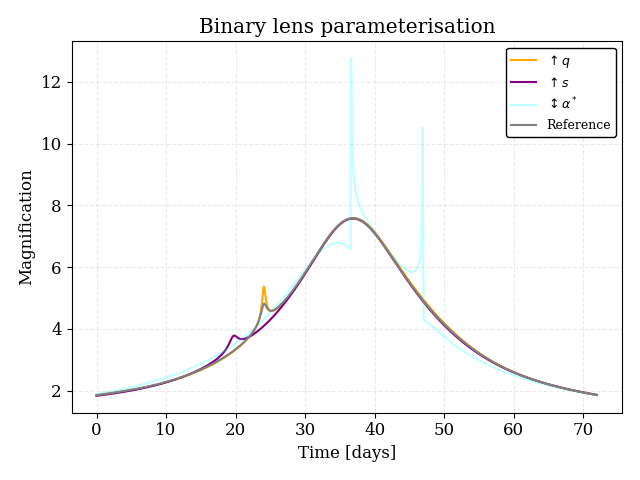
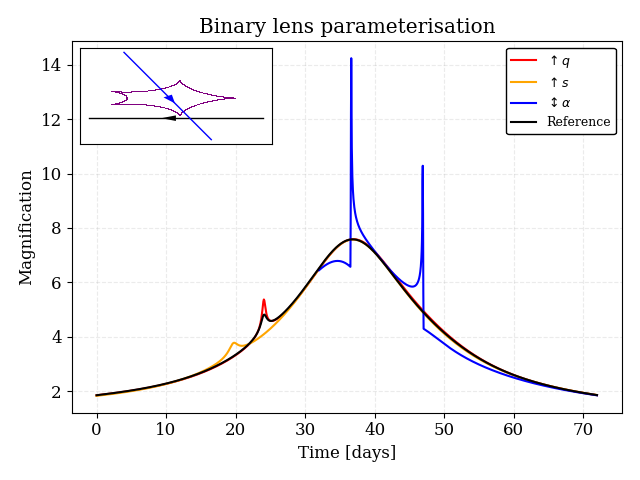
finished paramter plot

diff --git a/light-curve-test.py b/light-curve-test.py
@@ -2,6 +2,9 @@
 # Part 4 Project, RJMCMC for Microlensing
 # [Lightcurve plotting]
 
+from os import error
+from numpy.core.defchararray import title
+from numpy.core.fromnumeric import size
 import MulensModel as mm
 import matplotlib.pyplot as plt
 import numpy as np
@@ -12,57 +15,70 @@ import copy
 
 pltf.Style
 
-if True:
+if False:
     plt.grid()
 
     #theta_r = [36, 0.133, 61.5,  0.001, 0.008, 1.2, 300] # crash
     theta_r = [36, 0.133, 61.5,  0.001, 0.009, 1.10, 180]
 
+    ts = [0, 72]
+
     theta_q = copy.deepcopy(theta_r)
     theta_q[4] = theta_q[4] + 0.001
-    pltf.PlotLightcurve(2, theta_q, r"$\uparrow q$", "orange", 1)
+    pltf.PlotLightcurve(2, theta_q, r"$\uparrow q$", "red", 1, False, ts)
     
     theta_s = copy.deepcopy(theta_r)
     theta_s[5] = theta_s[5] + 0.04
-    pltf.PlotLightcurve(2, theta_s, r"$\uparrow s$", "purple", 1)
+    pltf.PlotLightcurve(2, theta_s, r"$\uparrow s$", "orange", 1, False, ts)
 
     theta_a = copy.deepcopy(theta_r)
     theta_a[6] = theta_a[6] + 120
-    pltf.PlotLightcurve(2, theta_a, r"$\updownarrow \alpha^*$", "cyan", 0.25)
+    #theta_a[6] = theta_a[6] - 60
+    pltf.PlotLightcurve(2, theta_a, r"$\updownarrow \alpha$", "blue", 1, False, [32, 72])
 
-    pltf.PlotLightcurve(2, theta_r, "Reference", "grey", 1)
-
-
-    
+    pltf.PlotLightcurve(2, theta_r, "Reference", "black", 1, False, ts)
 
     plt.title('Binary lens parameterisation')
     plt.xlabel('Time [days]')
     plt.ylabel('Magnification')
     plt.legend()
     plt.tight_layout()
+
+    plt.axes([0.125, 0.7, 0.3, 0.2])
+    pltf.PlotLightcurve(2, theta_r, " ", "black", 1, True, [5, 45])
+    pltf.PlotLightcurve(2, theta_a, " ", "blue", 1, True, [20, 60])
+    ax = plt.gca()
+    ax.axes.xaxis.set_visible(False)
+    ax.axes.yaxis.set_visible(False)
+    #plt.legend(title = 'caustic', fontsize = 9)
+
+
+
+
+
     plt.savefig('Plots/BinaryParamCurve.png')
     plt.clf()
 
-if True:
+if False:
     plt.grid()
 
 
     theta_r = [36, 0.133, 61.5]
-
+    ts = [0, 72]
     
     theta_t0 = copy.deepcopy(theta_r)
     theta_t0[0] = theta_t0[0] + 15
-    pltf.PlotLightcurve(1, theta_t0, r"$\uparrow t_0$", "blue", 1)
+    pltf.PlotLightcurve(1, theta_t0, r"$\uparrow t_0$", "blue", 1, False, ts)
     
     theta_u0 = copy.deepcopy(theta_r)
     theta_u0[1] = theta_u0[1] - 0.02
-    pltf.PlotLightcurve(1, theta_u0, r"$\downarrow u_0$", "green", 1)
+    pltf.PlotLightcurve(1, theta_u0, r"$\downarrow u_0$", "orange", 1, False, ts)
 
     theta_tE = copy.deepcopy(theta_r)
     theta_tE[2] = theta_tE[2] + 25
-    pltf.PlotLightcurve(1, theta_tE, r"$\uparrow t_E$", "red", 1)
+    pltf.PlotLightcurve(1, theta_tE, r"$\uparrow t_E$", "red", 1, False, ts)
 
-    pltf.PlotLightcurve(1, theta_r, "Reference", "grey", 1)
+    pltf.PlotLightcurve(1, theta_r, "Reference", "black", 1, False, ts)
 
     plt.title('Single lens parameterisation')
     plt.xlabel('Time [days]')
@@ -72,7 +88,7 @@ if True:
     plt.savefig('Plots/SingleParamCurve.png')
     plt.clf()
 
-throw = throw
+
 
 # Get chi2 by creating a new model and fitting to previously generated data
 def chi2(t_0, u_0, t_E, rho, q, s, alpha, Data):
@@ -92,7 +108,7 @@ SingleModel = mm.Model({'t_0': 36, 'u_0': 0.133, 't_E': 61.5})
 SingleModel.set_magnification_methods([0., 'point_source', 72.])
 
 # initialise
-t = BinaryModel.set_times(n_epochs = 500)
+t = BinaryModel.set_times(n_epochs = 200)
 i = np.where(np.logical_and(0 <= t, t <= 72))
 binaryError = BinaryModel.magnification(t[i])/30 + 0.2
 
@@ -117,7 +133,7 @@ plt.tight_layout()
 plt.savefig('Plots/confusing-curve.png')
 plt.clf()
 
-g=h
+
 
 # plot binary
 BinaryModel.plot_magnification(t_range=[0, 72], subtract_2450000=False, color='black')
@@ -141,11 +157,16 @@ plt.ylabel('Magnification [?]')
 plt.savefig('Plots/curve-single.png')
 plt.clf()
 
-r=r
 
 ## PLOT POSTERIOR SURFACES ##
+error = BinaryModel.magnification(t[i])/100+0.5/BinaryModel.magnification(t[i])
+Data = mm.MulensData(data_list=[t[i], BinaryModel.magnification(t[i]), error],  phot_fmt = 'flux', chi2_fmt = 'flux')
 
-Data = mm.MulensData(data_list=[t, BinaryModel.magnification(t), BinaryModel.magnification(t)/20 + 0.25], phot_fmt='flux', chi2_fmt='flux')
+Data.plot(show_errorbars=True)
+plt.savefig('temp.png')
+plt.clf()
+
+throw=throw
 
 density = 5
 print(chi2(36, 0.133, 61.5, 0.00096, 0.0039, 1.120, 223.8, Data))

diff --git a/PlotFunctions.py b/PlotFunctions.py
@@ -202,7 +202,7 @@ def LightcurveFitError(m, FitTheta, priors, Data, TrueModel, t, error, details):
     return
 
 
-def PlotLightcurve(m, Theta, label, color, alpha):
+def PlotLightcurve(m, Theta, label, color, alpha, caustics, ts):
 
     if m == 1:
         Model = mm.Model(dict(zip(['t_0', 'u_0', 't_E'], Theta)))
@@ -212,7 +212,11 @@ def PlotLightcurve(m, Theta, label, color, alpha):
         Model = mm.Model(dict(zip(['t_0', 'u_0', 't_E', 'rho', 'q', 's', 'alpha'], Theta)))
         Model.set_magnification_methods([0., 'VBBL', 72.])
 
-    Model.plot_magnification(t_range = [0, 72], subtract_2450000 = False, color = color, label = label, alpha = alpha)
+    if caustics:
+        Model.plot_trajectory(t_start = ts[0], t_stop = ts[1], color = color, linewidth = 1, alpha = alpha, arrow_kwargs = {'width': 0.012})
+        Model.plot_caustics(color = 'purple', s = 2, marker = '.')
+    else:
+        Model.plot_magnification(t_range = ts, subtract_2450000 = False, color = color, label = label, alpha = alpha)
 
     return
 

diff --git a/ReversibleJump.py b/ReversibleJump.py
@@ -66,9 +66,11 @@ Model.set_magnification_methods([0., 'VBBL', 72.])
 
 #0, 50, 25, 0.3
 # Generate "Synthetic" Lightcurve
-epochs = Model.set_times(n_epochs = 50)
-error = Model.magnification(epochs)/30 + 0.25
-Data = mm.MulensData(data_list=[epochs, Model.magnification(epochs), error], phot_fmt='flux', chi2_fmt='flux')
+epochs = Model.set_times(n_epochs = 100)
+error = Model.magnification(epochs)/100 + 0.5/Model.magnification(epochs)
+Data = mm.MulensData(data_list=[epochs, Model.magnification(epochs), error], phot_fmt = 'flux', chi2_fmt = 'flux')
+
+print(Model.magnification(epochs))
 
 iterations = 20000
 
@@ -98,8 +100,8 @@ rho_upi =  f.uniDist(10**-4, 10**-2)
 priors = [t0_upi, u0_upi,  tE_upi, rho_upi,  q_upi, s_upi, alpha_upi]
 m_pi = [0.5, 0.5]
 
-
-
+print(np.exp(f.logLikelihood(2, Data, theta_Models[0], priors)), "hi")
+g=g
 def ParralelMain(arr):
 
     sn, Data, priors, m_pi, iterations = arr
